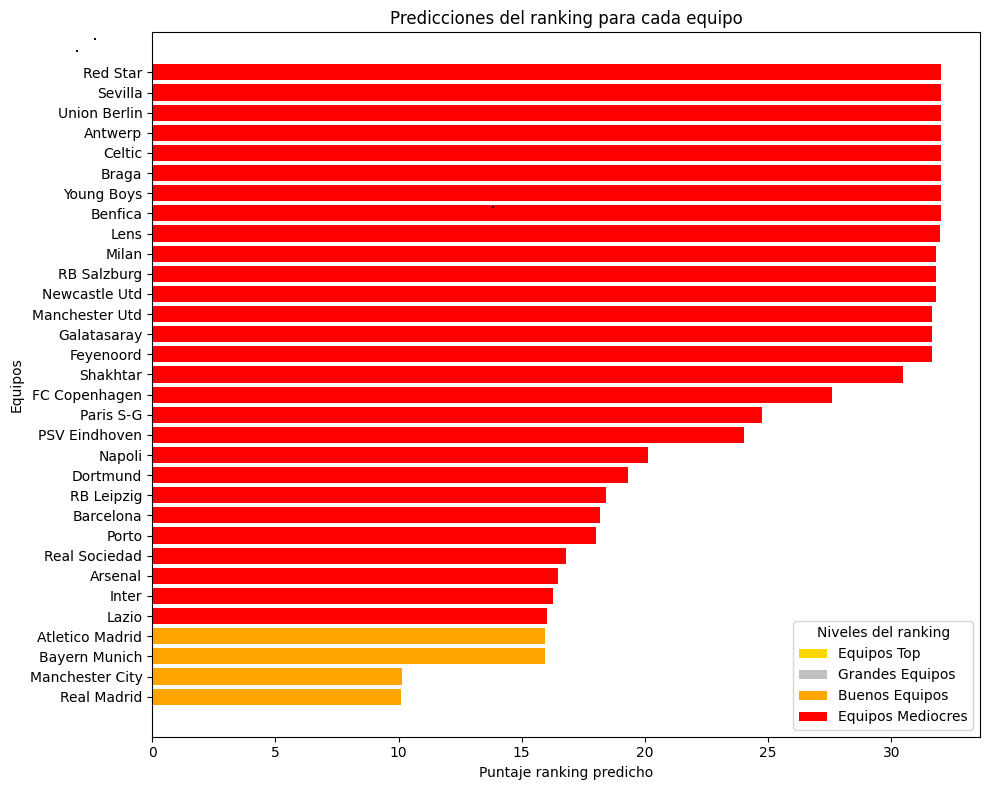
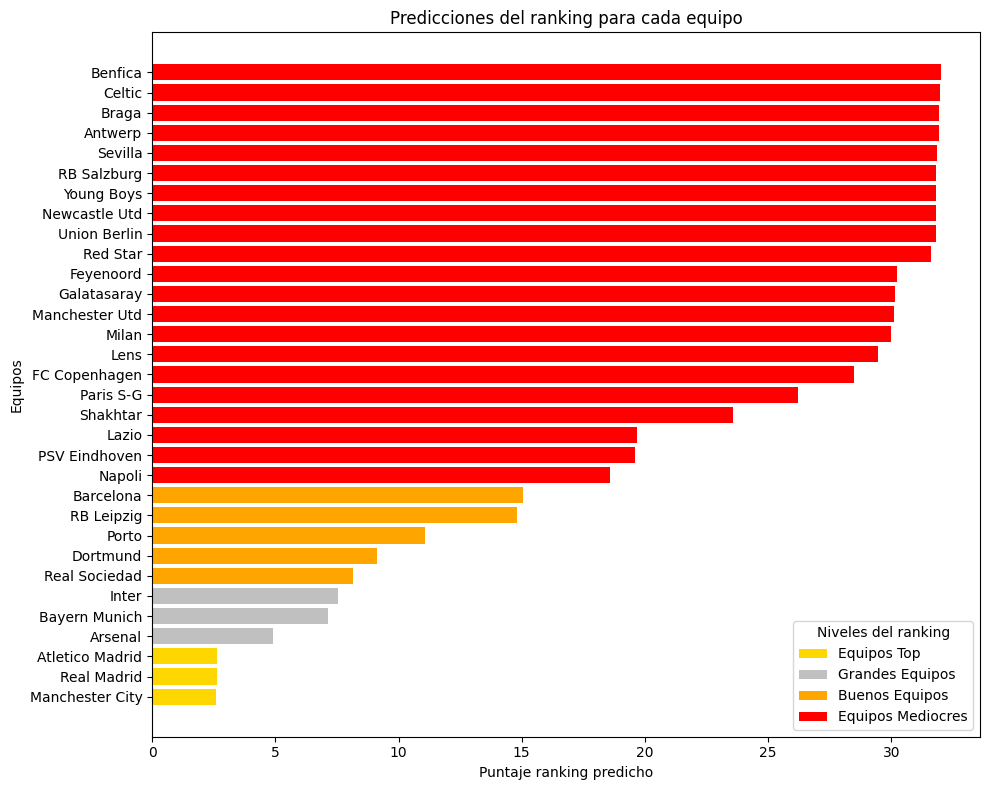
COMMIT

diff --git a/actividades/decisiontree/decisiontree.py b/actividades/decisiontree/decisiontree.py
@@ -3,13 +3,13 @@ sys.path.append(r'C:/Users/Germán Llorente/Desktop/germiprogramer/CHAMPIONS-LEA
 from auxiliar.rutas import *
 from classes.modelos.decision_tree import *
 
-df_total = pd.concat([ch14, ch15, ch16, ch17, ch18, ch19, ch20, ch21, ch22, ch23], ignore_index=True)
+df_total = pd.concat([ch15, ch16, ch17, ch18, ch19, ch20, ch21, ch22, ch23], ignore_index=True)
 
 # Instanciar la clase RegresionRanking
 regresion_ranking = DecisionTreeRanking('datos/modelos/decisiontree.pkl')
 
 # Entrenar el modelo con los datos cargados
-variables_independientes = ['W_av', 'L_av', 'GF_av', 'GA_av', 'GD_av', 'Pts_av']
+variables_independientes = ['W_av', 'L_av', 'GF_av', 'GA_av', 'GD_av', 'Pts_av', 'UEFA points']
 variable_dependiente = 'Rk_transformed'
 regresion_ranking.entrenar(df_total, variables_independientes, variable_dependiente)
 
@@ -30,7 +30,7 @@ prediccion = prediccion[["Squad", "Rk_transformed"]]
 
 #guardame el dataset prediccion en un csv
 
-prediccion.to_csv(r"C:\Users\Germán Llorente\Desktop\germiprogramer\CHAMPIONS-LEAGUE\datos\predicciones\clasif_ch_decisiontree.csv", index=False)
+prediccion.to_csv(r"C:\Users\Germán Llorente\Desktop\germiprogramer\CHAMPIONS-LEAGUE\datos\predicciones\clasif_ch_decisiontree_UEFA_points.csv", index=False)
 
 # Mostrar los resultados
 

diff --git a/actividades/random_forest/prediccion_ranking.py b/actividades/random_forest/prediccion_ranking.py
@@ -4,9 +4,9 @@ from auxiliar.rutas import *
 from classes.modelos.random_forest import *
 
 # Suponiendo que tus DataFrames ya están cargados y limpios
-df_total = pd.concat([ch15, ch16, ch17, ch18, ch19, ch20, ch21, ch22, ch23], ignore_index=True)
+df_total = pd.concat([ch14,ch15, ch16, ch17, ch18, ch19, ch20, ch21, ch22, ch23], ignore_index=True)
     
-X = df_total[['W_av', 'L_av', 'GF_av', 'GA_av', 'GD_av', 'Pts_av','UEFA points']]
+X = df_total[['W_av', 'L_av', 'GF_av', 'GA_av', 'GD_av', 'Pts_av']]
 y = df_total['Rk_transformed']
     
 X_train, X_test, y_train, y_test = train_test_split(X, y, test_size=0.2, random_state=42)
@@ -19,7 +19,7 @@ mae = model.evaluate(X_test, y_test)
 print(f"Error absoluto medio: {mae}")
     
 # Preparar y realizar predicciones sobre un nuevo conjunto de datos
-X_new = ch24[['W_av', 'L_av', 'GF_av', 'GA_av', 'GD_av', 'Pts_av','UEFA points']]
+X_new = ch24[['W_av', 'L_av', 'GF_av', 'GA_av', 'GD_av', 'Pts_av']]
 for col in X_new.columns:
     if X_new[col].dtype == object:
         X_new[col] = X_new[col].str.replace(',', '').astype(float)

diff --git a/classes/clusterizacion/clusterizacion.py b/classes/clusterizacion/clusterizacion.py
@@ -87,7 +87,7 @@ class Clusterizacion:
         score = silhouette_score(self.X_scaled, self.data[cluster_column])
         print(f"Coeficiente de silueta para {cluster_column}: {score}")
 
-    def graficar_clusters(self, cluster_column='Cluster_KMeans'):
+    def graficar_clusters(self, cluster_column='Cluster_GMM'):
             """
             Grafica los clusters usando PCA para reducir la dimensionalidad y facilitar la visualización.
             """
@@ -114,5 +114,5 @@ class Clusterizacion:
             plt.xlabel('Componente Principal 1')
             plt.ylabel('Componente Principal 2')
             plt.legend(title='Cluster')
-            plt.savefig("resultados/graficos/clusterizacion_equipos", bbox_inches='tight')
+            plt.savefig("resultados/graficos/GMM_equipos", bbox_inches='tight')
             plt.close()  # Cerrar la figura para evitar que se muestre en otro output

diff --git a/actividades/clusterizacion/nivel_equipos.py b/actividades/clusterizacion/nivel_equipos.py
@@ -23,6 +23,9 @@ clasterizador.aplicar_gmm(n_components=4)
 # Evaluar los clusters generados por K-Means y Agglomerative Clustering utilizando el coeficiente de silueta
 clasterizador.evaluar_clusters('Cluster_KMeans')
 clasterizador.evaluar_clusters('Cluster_Agglomerative')
+clasterizador.evaluar_clusters('Cluster_GMM')
+
 
 # Mostrar los clusters generados por cada algoritmo
-clasterizador.graficar_clusters('Cluster_KMeans')
+
+clasterizador.graficar_clusters('Cluster_GMM')

diff --git a/classes/modelos/decision_tree.py b/classes/modelos/decision_tree.py
@@ -82,7 +82,7 @@ class DecisionTreeRanking(DecisionTree):
         table.set_fontsize(10)
         table.scale(1.2, 1.2)
 
-        plt.savefig("resultados/graficos/clasificacion_decisiontree", bbox_inches='tight')
+        plt.savefig("resultados/graficos/clasificacion_decisiontree_UEFApoints", bbox_inches='tight')
         plt.show()
 
  
